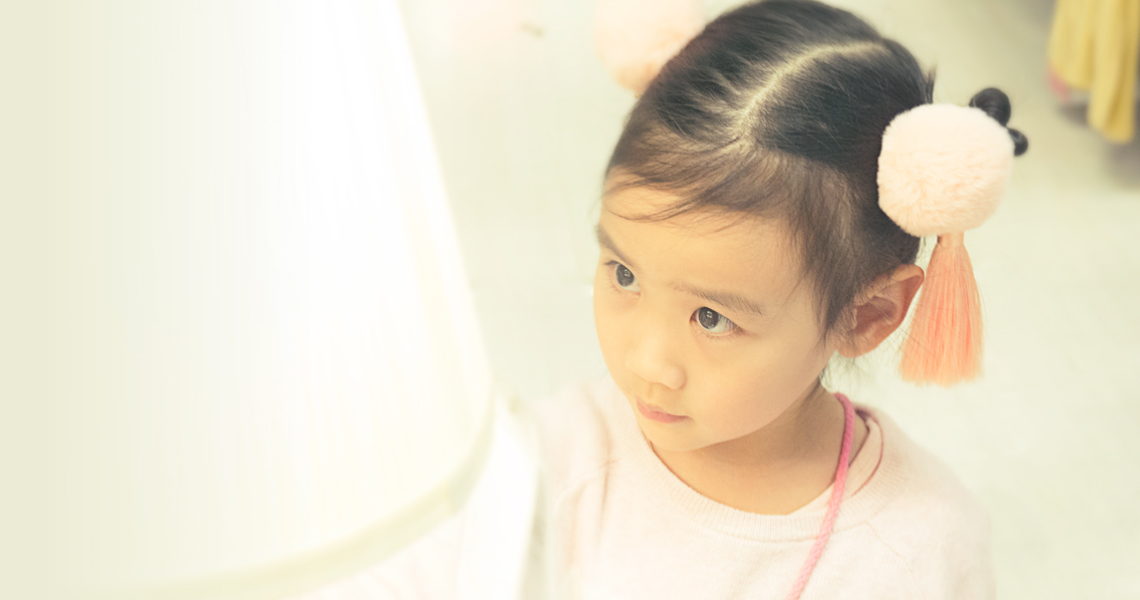
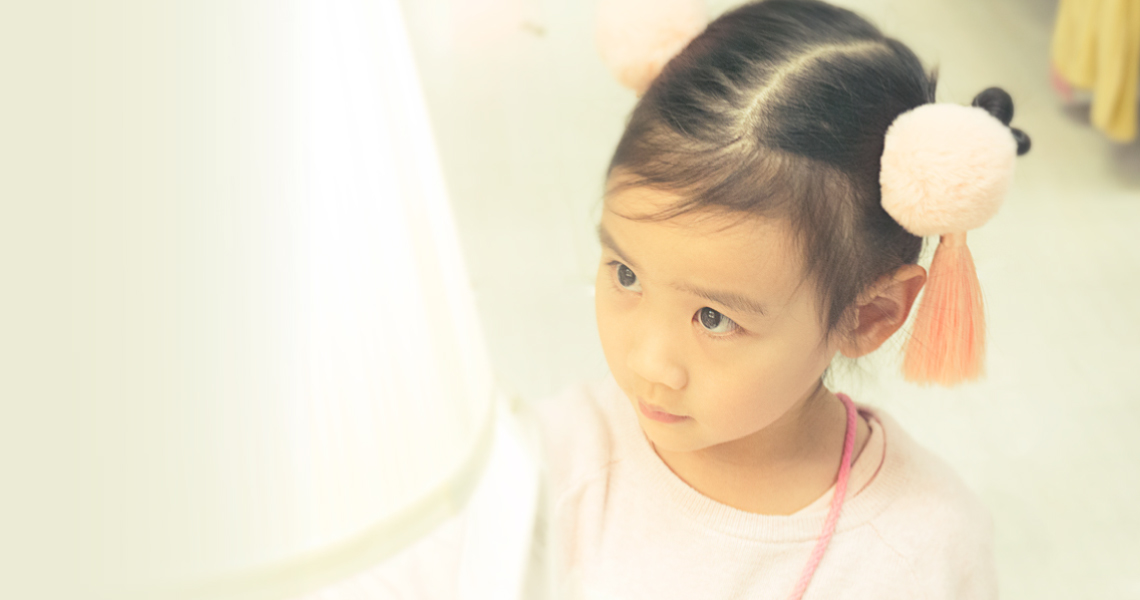
carousle png2jpg

diff --git a/index.html b/index.html
@@ -75,14 +75,14 @@
 					<!-- 1 -->
 					<div class="item active">
 						<a href="https://weidian.com/item.html?itemID=2146272719">
-					    	<img src="img/carousel_01.png" alt="12件精品套装">
+					    	<img src="img/carousel_01.jpg" alt="12件精品套装">
 					    </a>
 					</div>
 
 					<!-- 2 -->
 					<div class="item" >
 						<a href="https://weidian.com/item.html?itemID=2170133511">
-					    	<img src="img/carousel_02.png" alt="我是粉色控">
+					    	<img src="img/carousel_02.jpg" alt="我是粉色控">
 					    </a>
 					</div>
 
